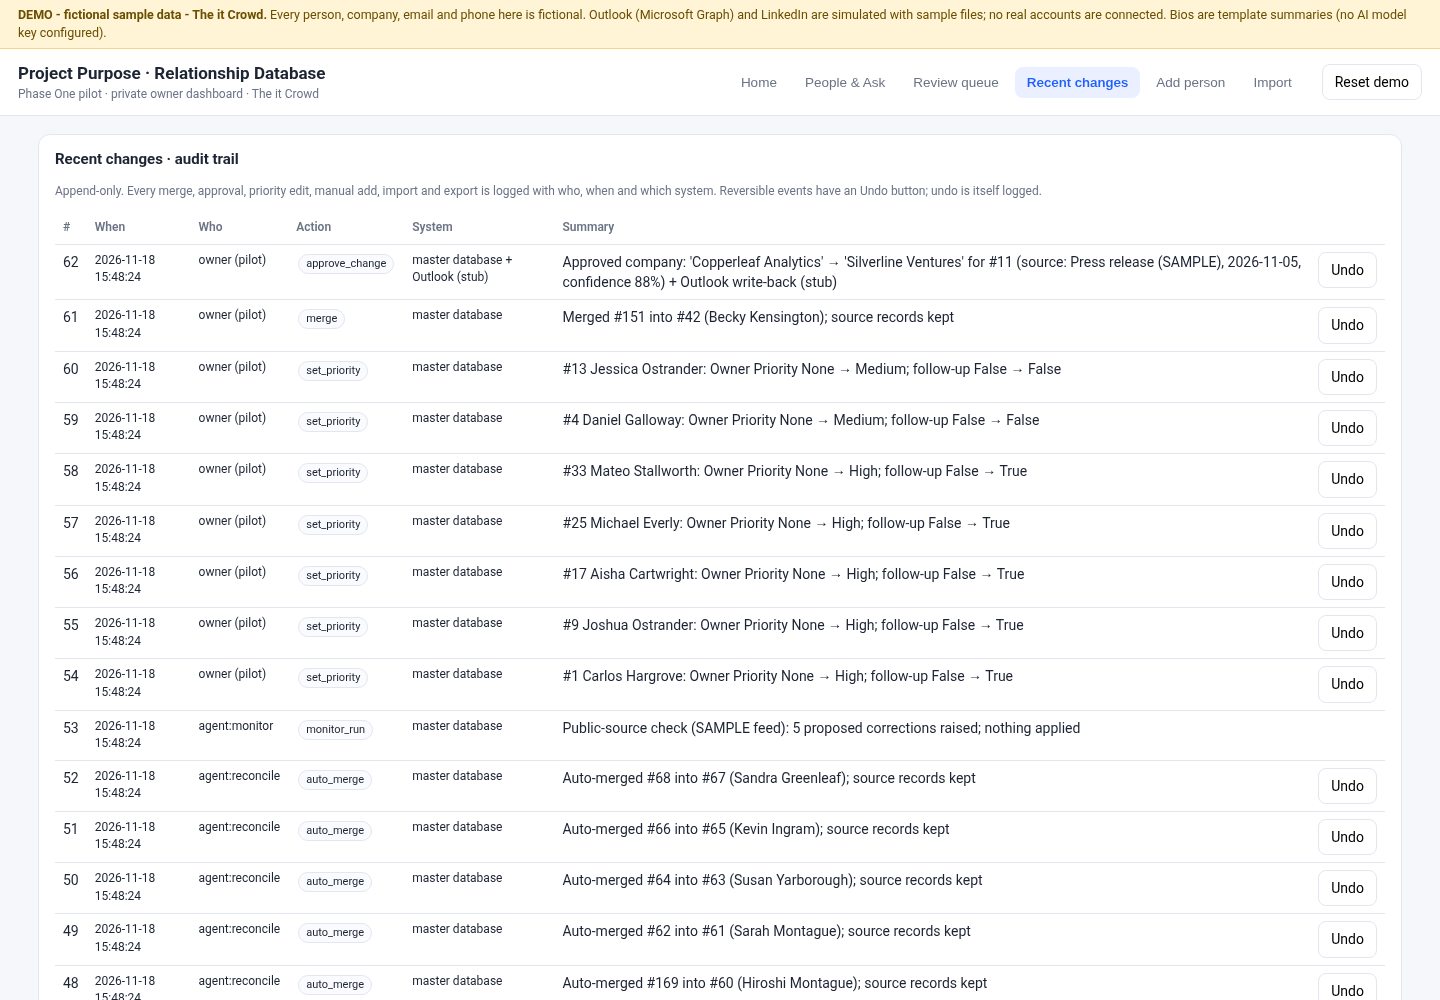
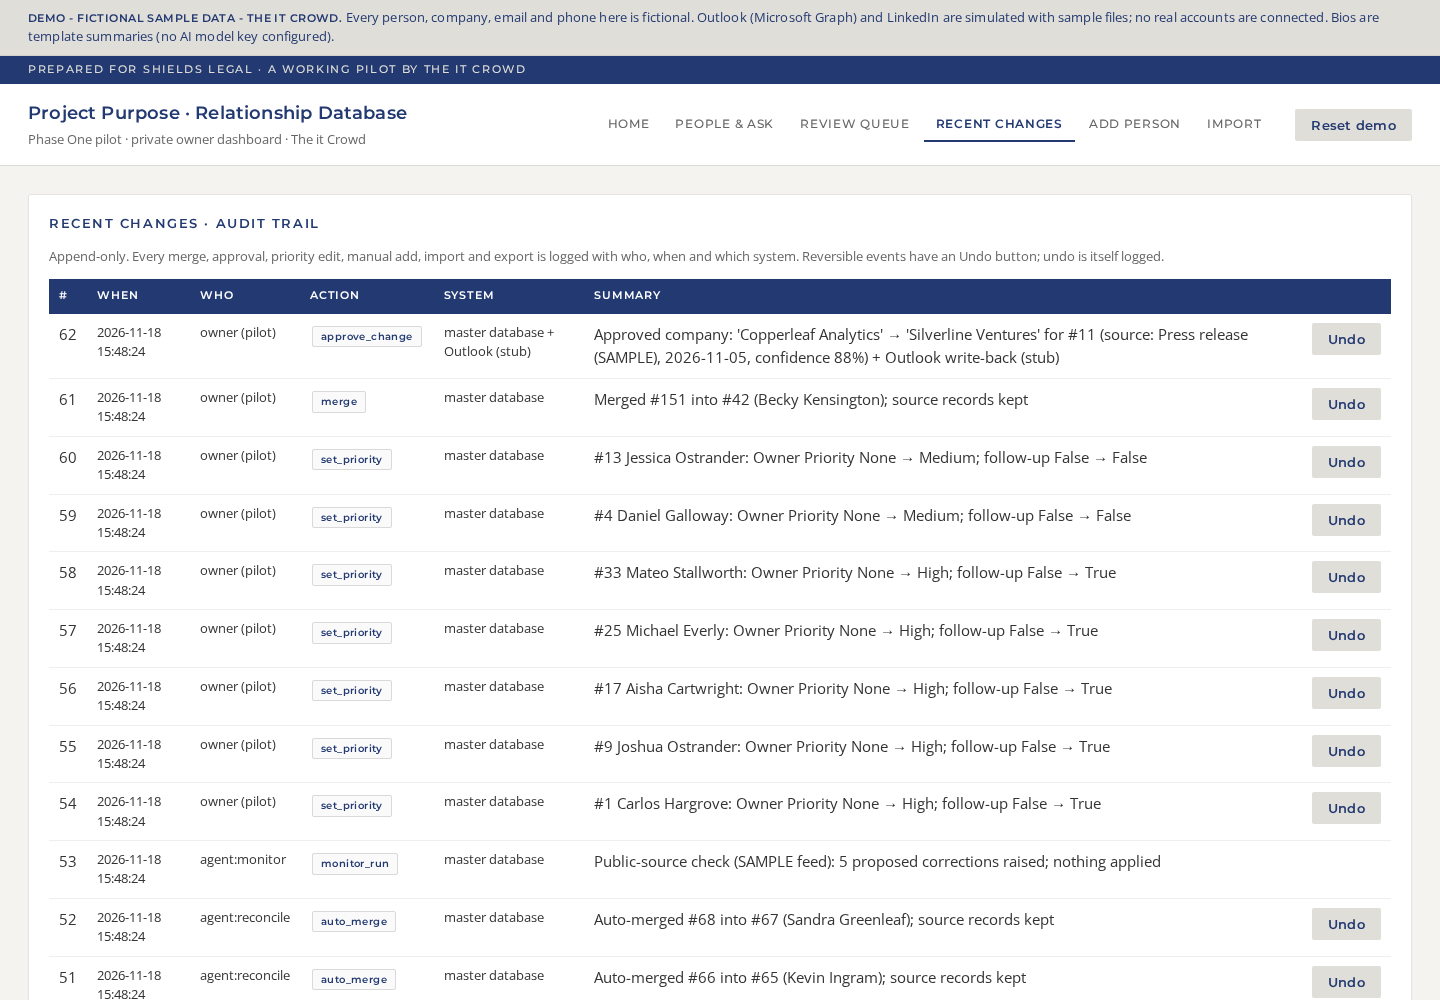
Restyle the pilot dashboard to follow Shields Legal colors and fonts.
Use Montserrat and Open Sans with the firm's navy, sand, and blue palette. Keep the demo banner and all existing behavior; do not use their logo.

Changed region(s): [[0.0, 0.0, 1.0, 1.0], [0.4062, 0.558, 0.75, 0.589], [0.9062, 0.868, 0.9688, 1.0]]

diff --git a/static/index.html b/static/index.html
@@ -1,38 +1,97 @@
 <!doctype html>
-<html><head><meta charset="utf-8"><title>Project Purpose · Relationship Database (PILOT – SAMPLE DATA)</title>
+<html lang="en"><head><meta charset="utf-8"><title>Project Purpose · Relationship Database (PILOT – SAMPLE DATA)</title>
 <meta name="viewport" content="width=device-width, initial-scale=1">
+<link rel="preconnect" href="https://fonts.googleapis.com">
+<link rel="preconnect" href="https://fonts.gstatic.com" crossorigin>
+<link href="https://fonts.googleapis.com/css2?family=Montserrat:ital,wght@0,300;0,400;0,500;0,600;0,700;1,400&family=Open+Sans:ital,wght@0,400;0,500;0,600;0,700;1,400&display=swap" rel="stylesheet">
 <style>
-:root{--ink:#1d2433;--mut:#6b7385;--line:#e3e6ee;--bg:#f6f7fb;--acc:#1f5eff;--ok:#0f8a5f;--bad:#c23b3b;--warn:#b7791f}
-*{box-sizing:border-box}body{margin:0;font:14px/1.45 -apple-system,Segoe UI,Roboto,Helvetica,Arial,sans-serif;color:var(--ink);background:var(--bg)}
-.banner{background:#fff4d6;border-bottom:1px solid #f0d68a;padding:6px 18px;font-size:12.5px;color:#6b4e00}
-header{display:flex;align-items:center;gap:18px;padding:12px 18px;background:#fff;border-bottom:1px solid var(--line)}
-header h1{font-size:17px;margin:0}header .sub{color:var(--mut);font-size:12px}
-nav{display:flex;gap:4px;margin-left:auto}nav button{border:0;background:none;padding:8px 12px;border-radius:8px;cursor:pointer;font-size:13.5px;color:var(--mut)}
-nav button.on{background:#eaf0ff;color:var(--acc);font-weight:600}
-main{padding:18px;max-width:1400px;margin:0 auto}.card{background:#fff;border:1px solid var(--line);border-radius:12px;padding:14px 16px;margin-bottom:14px}
-.grid{display:grid;gap:14px}.g4{grid-template-columns:repeat(4,1fr)}.g2{grid-template-columns:1fr 1fr}.g3{grid-template-columns:repeat(3,1fr)}
-.kpi .n{font-size:26px;font-weight:700}.kpi .l{color:var(--mut);font-size:12.5px}
-h2{font-size:15px;margin:0 0 10px}h3{font-size:13.5px;margin:12px 0 6px;color:var(--mut);text-transform:uppercase;letter-spacing:.04em}
-table{width:100%;border-collapse:collapse}th,td{text-align:left;padding:7px 8px;border-bottom:1px solid var(--line);vertical-align:top}
-th{font-size:12px;color:var(--mut);font-weight:600}tr.click:hover{background:#f4f7ff;cursor:pointer}
-.tag{display:inline-block;font-size:11px;padding:1px 7px;border-radius:10px;margin:1px 2px;border:1px solid var(--line);background:#fafbfe;white-space:nowrap}
-.t1{background:#e8f6ef;border-color:#bfe6d2}.t2{background:#eaf0ff;border-color:#c9d6ff}.t3{background:#fff3e6;border-color:#ffd8ad}.t4{background:#f3ecff;border-color:#dccbff}.t5{background:#f1f1f1}
-.pv-Verified{background:#e8f6ef;border-color:#bfe6d2;color:#0b6b48}.pv-Participant-provided{background:#eaf0ff;color:#2846a8;border-color:#c9d6ff}
-.pv-User{background:#fff8e1;color:#7a5a00;border-color:#f3dc8f}.pv-AI{background:#f3ecff;color:#5b34b0;border-color:#dccbff}.pv-Unknown{background:#f6f6f6;color:#888}
-input,select,textarea{font:inherit;padding:7px 9px;border:1px solid var(--line);border-radius:8px;background:#fff}
-button.b{font:inherit;padding:7px 12px;border-radius:8px;border:1px solid var(--line);background:#fff;cursor:pointer}
-button.p{background:var(--acc);color:#fff;border-color:var(--acc)}button.ok{background:var(--ok);color:#fff;border-color:var(--ok)}button.no{color:var(--bad)}
-.ask{display:flex;gap:8px}.ask input{flex:1;font-size:15px;padding:10px 12px}
-.chips .chip{display:inline-block;background:#eaf0ff;color:#2846a8;border-radius:14px;padding:3px 10px;margin:3px 4px 0 0;font-size:12.5px}
-.filters{display:flex;flex-wrap:wrap;gap:8px;align-items:center}.filters label{font-size:12px;color:var(--mut)}
-.mut{color:var(--mut)}.small{font-size:12px}.warn{color:var(--warn)}.bad{color:var(--bad)}.okc{color:var(--ok)}
-#drawer{position:fixed;top:0;right:0;width:min(760px,100%);height:100%;background:#fff;box-shadow:-8px 0 30px rgba(0,0,0,.12);overflow:auto;padding:18px 22px;display:none;z-index:5}
-#drawer .x{float:right}.side{display:grid;grid-template-columns:1fr 1fr;gap:10px}.side .card{margin:0}
-.diff{display:grid;grid-template-columns:1fr 1fr;gap:10px}.private{background:#fffbea;border:1px dashed #e9cf72;border-radius:10px;padding:8px 10px}
-.bio{background:#faf8ff;border:1px solid #e6dcff;border-radius:10px;padding:10px 12px}
-.toast{position:fixed;bottom:18px;left:50%;transform:translateX(-50%);background:#1d2433;color:#fff;padding:8px 14px;border-radius:8px;display:none;z-index:9}
+:root{
+  --navy:#223971;
+  --navy-deep:#294575;
+  --blue:#3f6aa7;
+  --sand:#e0ded8;
+  --sand-soft:#f3f2ee;
+  --teal:#82c0c7;
+  --ink:#333333;
+  --mut:#666666;
+  --line:#d9d9d9;
+  --bg:#f4f3f0;
+  --card:#ffffff;
+  --ok:#1f6b4a;
+  --bad:#9b2c2c;
+  --warn:#8a6a2b;
+  --head:'Montserrat',Helvetica,Arial,sans-serif;
+  --body:'Open Sans',Arial,sans-serif;
+}
+*{box-sizing:border-box}
+html,body{margin:0}
+body{font:15px/1.55 var(--body);color:var(--ink);background:var(--bg);-webkit-font-smoothing:antialiased}
+a{color:var(--blue)}
+.banner{background:var(--sand);border-bottom:1px solid #d3d0c8;padding:8px 28px;font-size:12.5px;color:var(--navy);letter-spacing:.01em}
+.banner b{font-family:var(--head);font-weight:600;letter-spacing:.04em;text-transform:uppercase;font-size:11px}
+.prepared{background:var(--navy);color:var(--sand);padding:6px 28px;font-family:var(--head);font-size:10.5px;font-weight:500;letter-spacing:.16em;text-transform:uppercase}
+header{display:flex;align-items:center;gap:22px;padding:16px 28px;background:#fff;border-bottom:1px solid var(--line);position:sticky;top:0;z-index:4}
+header h1{font-family:var(--head);font-size:18px;font-weight:600;margin:0;color:var(--navy);letter-spacing:.01em}
+header .sub{color:var(--mut);font-size:12.5px;margin-top:2px}
+nav{display:flex;gap:2px;margin-left:auto;flex-wrap:wrap}
+nav button{border:0;background:none;padding:9px 12px;border-radius:0;cursor:pointer;font-family:var(--head);font-size:12px;font-weight:500;letter-spacing:.06em;text-transform:uppercase;color:var(--mut);border-bottom:2px solid transparent}
+nav button:hover{color:var(--navy)}
+nav button.on{background:transparent;color:var(--navy);font-weight:600;border-bottom-color:var(--navy)}
+main{padding:28px;max-width:1440px;margin:0 auto}
+.card{background:var(--card);border:1px solid #e6e4de;border-radius:2px;padding:18px 20px;margin-bottom:16px;box-shadow:0 1px 2px rgba(34,57,113,.04)}
+.grid{display:grid;gap:16px}.g4{grid-template-columns:repeat(4,1fr)}.g2{grid-template-columns:1fr 1fr}.g3{grid-template-columns:repeat(3,1fr)}
+.kpi{border-top:3px solid var(--navy);padding-top:14px}
+.kpi .n{font-family:var(--head);font-size:28px;font-weight:500;color:var(--navy);letter-spacing:-.02em;line-height:1.1}
+.kpi .l{color:var(--mut);font-size:11.5px;font-family:var(--head);letter-spacing:.06em;text-transform:uppercase;margin-top:6px}
+h2{font-family:var(--head);font-size:13px;font-weight:600;margin:0 0 14px;color:var(--navy);text-transform:uppercase;letter-spacing:.12em}
+h3{font-family:var(--head);font-size:11.5px;margin:16px 0 8px;color:var(--mut);text-transform:uppercase;letter-spacing:.1em;font-weight:600}
+table{width:100%;border-collapse:collapse}
+th,td{text-align:left;padding:9px 10px;border-bottom:1px solid #eee;vertical-align:top}
+th{font-family:var(--head);font-size:10.5px;color:#fff;font-weight:600;letter-spacing:.08em;text-transform:uppercase;background:var(--navy);border-bottom:0}
+th:first-child{border-radius:0}tr.click:hover{background:var(--sand-soft);cursor:pointer}
+.tag{display:inline-block;font-family:var(--head);font-size:10px;font-weight:600;letter-spacing:.04em;padding:2px 8px;border-radius:2px;margin:1px 2px;border:1px solid var(--line);background:#fafafa;white-space:nowrap;color:var(--navy)}
+.t1{background:#e8f3f4;border-color:#b9d9dd;color:#1a5c63}
+.t2{background:#e8eef8;border-color:#c5d0e6;color:var(--navy)}
+.t3{background:#f3f1eb;border-color:#d4d0c6;color:#5c5648}
+.t4{background:#eaf0f8;border-color:#c5d4e8;color:var(--blue)}
+.t5{background:#f1f1f1;border-color:#ddd;color:#666}
+.pv-Verified{background:#e8f3ee;border-color:#b7d8c8;color:#1f6b4a}
+.pv-Participant-provided{background:#e8eef8;color:var(--navy);border-color:#c5d0e6}
+.pv-User{background:#f6f3ea;color:#6b5420;border-color:#e0d4b0}
+.pv-AI{background:#eef2f8;color:var(--blue);border-color:#c9d4e6}
+.pv-Unknown{background:#f6f6f6;color:#888;border-color:#e0e0e0}
+input,select,textarea{font:inherit;padding:8px 10px;border:1px solid var(--line);border-radius:2px;background:#fff;color:var(--ink)}
+input:focus,select:focus,textarea:focus{outline:none;border-color:var(--blue);box-shadow:0 0 0 3px rgba(63,106,167,.18)}
+button{font-family:var(--head)}
+button.b{font-family:var(--head);font-size:13px;font-weight:600;padding:8px 16px;border-radius:2px;border:0;background:var(--sand);color:var(--navy);cursor:pointer;letter-spacing:.02em}
+button.b:hover{background:#d4d1c9}
+button.p{background:var(--navy);color:#fff;border:0}
+button.p:hover{background:var(--navy-deep)}
+button.ok{background:var(--ok);color:#fff;border:0}
+button.no{color:var(--bad);background:transparent;border:1px solid #e2c8c8}
+button.no:hover{background:#fbf4f4}
+.ask{display:flex;gap:8px}
+.ask input{flex:1;font-size:15px;padding:12px 14px;border-color:#d3d0c8}
+.chips .chip{display:inline-block;background:#e8eef8;color:var(--navy);border-radius:2px;padding:3px 10px;margin:3px 4px 0 0;font-size:12px;font-family:var(--head);font-weight:500;letter-spacing:.02em}
+.filters{display:flex;flex-wrap:wrap;gap:8px;align-items:center}
+.filters label{font-size:11.5px;color:var(--mut);font-family:var(--head);letter-spacing:.04em;text-transform:uppercase;font-weight:600}
+.mut{color:var(--mut)}.small{font-size:12.5px}.warn{color:var(--warn)}.bad{color:var(--bad)}.okc{color:var(--ok)}
+#drawer{position:fixed;top:0;right:0;width:min(760px,100%);height:100%;background:#fff;box-shadow:-8px 0 30px rgba(34,57,113,.16);overflow:auto;padding:22px 26px;display:none;z-index:5}
+#drawer .x{float:right}
+#drawer h2{margin-top:4px;text-transform:none;letter-spacing:.02em;font-size:20px;font-weight:600}
+#drawer h2 .small{letter-spacing:.04em;text-transform:uppercase;font-weight:500}
+.kpi .n .small{display:block;font-family:var(--body);font-size:12px;font-weight:400;color:var(--mut);letter-spacing:0;margin-top:4px}
+label.small{font-family:var(--head);font-size:11px;letter-spacing:.06em;text-transform:uppercase;font-weight:600;color:var(--mut);display:block;margin-top:10px}
+.side{display:grid;grid-template-columns:1fr 1fr;gap:12px}.side .card{margin:0}
+.diff{display:grid;grid-template-columns:1fr 1fr;gap:12px}
+.private{background:#f6f3ea;border:1px dashed #d4c7a0;border-radius:2px;padding:10px 12px}
+.bio{background:var(--sand-soft);border:1px solid #e6e4de;border-radius:2px;padding:12px 14px}
+.toast{position:fixed;bottom:22px;left:50%;transform:translateX(-50%);background:var(--navy);color:#fff;padding:10px 16px;border-radius:2px;display:none;z-index:9;font-family:var(--head);font-size:13px;letter-spacing:.03em}
+@media (max-width:1100px){.g4{grid-template-columns:1fr 1fr}.g3{grid-template-columns:1fr}}
+@media (max-width:720px){header{flex-wrap:wrap;padding:12px 16px}nav{margin-left:0;width:100%}.g4,.g2{grid-template-columns:1fr}main{padding:16px}}
 </style></head><body>
 <div class="banner"><b>DEMO - fictional sample data - The it Crowd.</b> Every person, company, email and phone here is fictional. Outlook (Microsoft Graph) and LinkedIn are simulated with sample files; no real accounts are connected. Bios are template summaries (no AI model key configured).</div>
+<div class="prepared">Prepared for Shields Legal · a working pilot by The it Crowd</div>
 <header><div><h1>Project Purpose · Relationship Database</h1><div class="sub">Phase One pilot · private owner dashboard · The it Crowd</div></div>
 <nav id="nav"></nav><button class="b" title="Rebuild the fictional sample data from scratch" onclick="if(confirm('Reset the demo to its starting sample data? Any changes made in the demo will be cleared.'))post('/api/reset').then(()=>{toast('Demo reset');go('home')})">Reset demo</button></header>
 <main id="main"></main>
